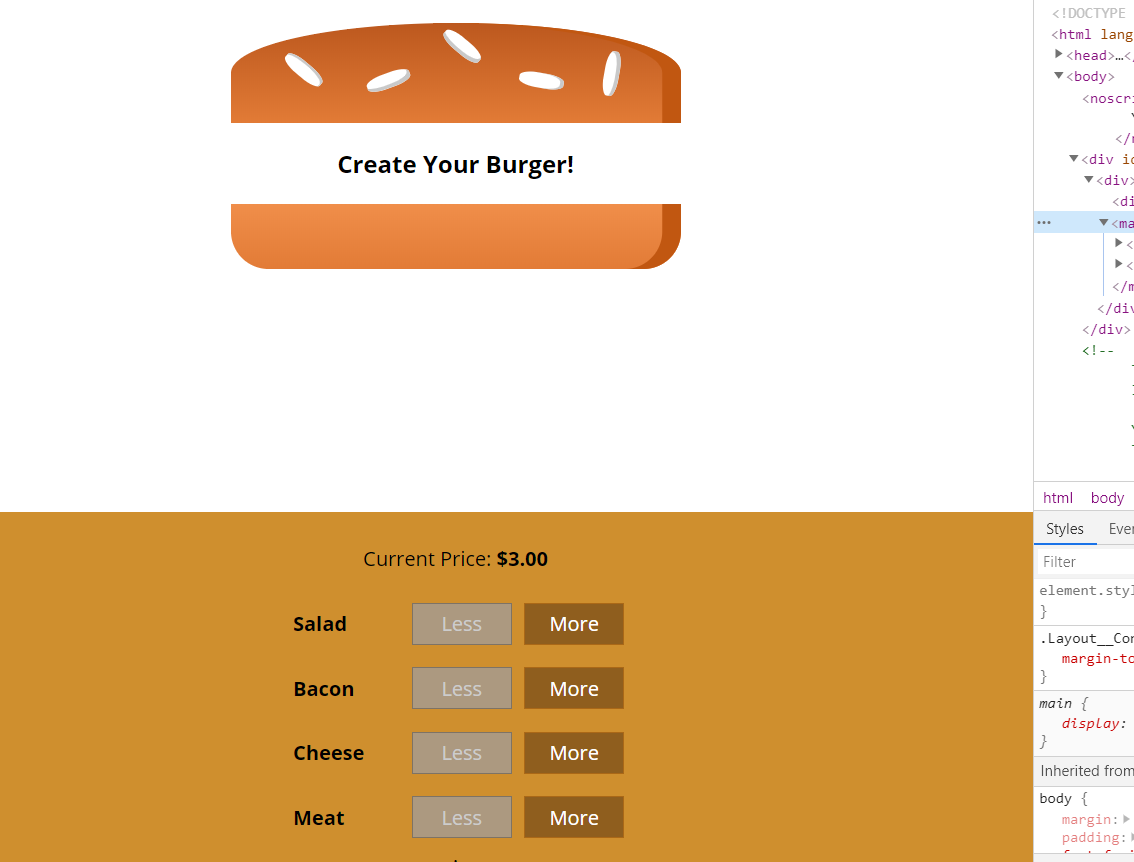
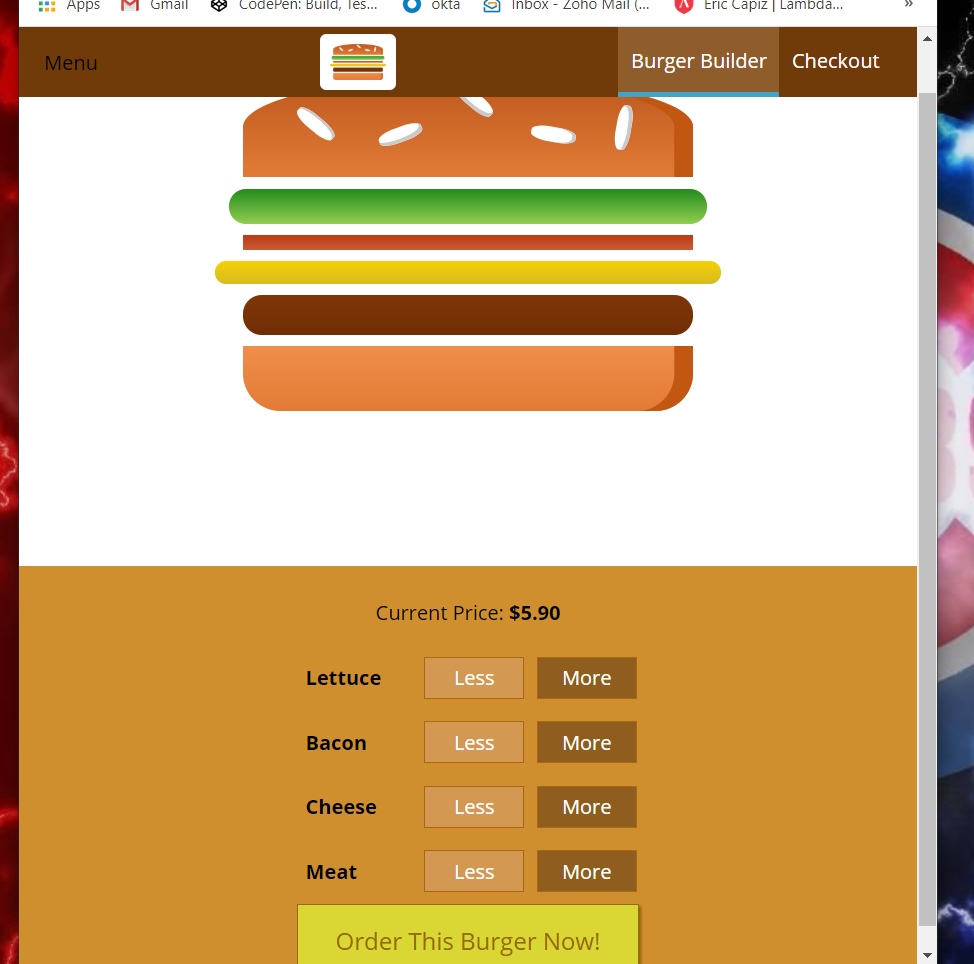
toggle menu for mobile device complete

diff --git a/src/components/Layout/Layout.js b/src/components/Layout/Layout.js
@@ -1,17 +1,34 @@
-import React from 'react';
+import React, {Component} from 'react';
 import Toolbar from '../Navigation/Toolbar/Toolbar';
-
 import Aux1 from '../../hoc/Aux1';
 import classes from './Layout.css';
 import SideDrawer from '../Navigation/SideDrawer/SideDrawer';
-const layout = (props)=>(
-    <Aux1>
-        <Toolbar />
-        <SideDrawer />
-    <main className={classes.Content}>
-        {props.children}
-    </main>
-    </Aux1>
-);
 
-export default layout;
+
+class Layout extends Component{
+    state={
+        showSideDrawer: false
+    }
+    sideDrawerClosedHandler = ()=>{
+        this.setState({showSideDrawer: false})
+    }
+    sideDrawerToggleHandler = ()=>{
+        this.setState((prevState)=>{
+            return{showSideDrawer: !prevState.showSideDrawer};
+        });
+    }
+    render(){
+        return(
+        <Aux1>
+            <Toolbar drawerToggleClicked={this.sideDrawerToggleHandler}/>
+            <SideDrawer closed={this.sideDrawerClosedHandler}
+                open={this.state.showSideDrawer} />
+        <main className={classes.Content}>
+            {this.props.children}
+        </main>
+        </Aux1>
+        )
+    }
+} 
+
+export default Layout;

diff --git a/src/components/Navigation/SideDrawer/SideDrawer.js b/src/components/Navigation/SideDrawer/SideDrawer.js
@@ -2,18 +2,26 @@ import React from 'react';
 import Logo from '../../Logo/Logo';
 import NavigationItems from '../NavigationItems/NavigationItems';
 import classes from './SideDrawer.css';
-
+import Backdrop from '../../UI/Backdrop/Backdrop';
+import Aux1 from '../../../hoc/Aux1';
 const sideDrawer = (props)=>{
+    let attachedClasses = [classes.SideDrawer, classes.Close];
+    if (props.open){
+        attachedClasses =[classes.SideDrawer, classes.Open];
+    }
 
     return(
-        <div className={classes.SideDrawer}>
-            <div className={classes.Logo}>
-            <Logo />
+        <Aux1>
+            <Backdrop show={props.open} clicked={props.closed} />
+            <div className={attachedClasses.join(' ')}>
+                <div className={classes.Logo}>
+                <Logo />
+                </div>
+                <nav>
+                    <NavigationItems />
+                </nav>
             </div>
-            <nav>
-                <NavigationItems />
-            </nav>
-        </div>
+        </Aux1>
     );
 };
 

diff --git a/src/components/Burger/OrderSummary/OrderSummary.js b/src/components/Burger/OrderSummary/OrderSummary.js
@@ -16,12 +16,12 @@ const orderSummary = (props)=>{
     return(
         <Aux1>
             <h3>Your Order:</h3>
-            <p>Your Ingredients:</p>
+            <p>Your burger has the following items:</p>
             <ul>
-                <p><strong>Total Price: {props.price.toFixed(2)}</strong></p>
                 {ingredientSummary}
+                <p><strong>Total Price: ${props.price.toFixed(2)}</strong></p>
             </ul>
-            <p>Checkout</p>
+            
             <Button btnType="Danger" clicked={props.purchaseCancelled}>Cancel Order</Button>
             <Button btnType="Success" clicked={props.purchaseContinued}>Continue</Button>
         </Aux1>

diff --git a/src/containers/BurgerBuilder/BurgerBuilder.js b/src/containers/BurgerBuilder/BurgerBuilder.js
@@ -6,7 +6,7 @@ import Modal from '../../components/UI/Modal/Modal';
 import OrderSummary from '../../components/Burger/OrderSummary/OrderSummary';
 
 const INGREDIENT_PRICES = {
-    salad: 0.5,
+    lettuce: 0.5,
     cheese: 0.4,
     meat: 1.3,
     bacon: 0.7
@@ -15,7 +15,7 @@ const INGREDIENT_PRICES = {
 class BurgerBuilder extends Component{
     state ={
         ingredients:{
-            salad: 0,
+            lettuce: 0,
             bacon: 0,
             cheese: 0,
             meat: 0,

diff --git a/src/components/Navigation/Toolbar/Toolbar.js b/src/components/Navigation/Toolbar/Toolbar.js
@@ -2,9 +2,10 @@ import React from 'react';
 import classes from './Toolbar.css';
 import Logo from '../../Logo/Logo';
 import NavigationItems from '../NavigationItems/NavigationItems';
+import DrawerToggle from '../SideDrawer/DrawerToggle/DrawerToggle';
 const toolbar = (props)=>(
     <header className={classes.Toolbar}>
-        <div>Menu</div>
+        <DrawerToggle clicked={props.drawerToggleClicked} />
         <div className={classes.Logo}>
         <Logo />
         </div>

diff --git a/src/components/Burger/BurgerIngredients/BurgerIngredients.js b/src/components/Burger/BurgerIngredients/BurgerIngredients.js
@@ -29,8 +29,8 @@ class BurgerIngredient extends Component{
             case ('bacon'):
                 ingredient = <div className={classes.Bacon}></div>;
                 break;
-            case ('salad'):
-                ingredient = <div className={classes.Salad}></div>;
+            case ('lettuce'):
+                ingredient = <div className={classes.Lettuce}></div>;
                 break;
             default:
                 ingredient = null;

diff --git a/src/components/Navigation/SideDrawer/DrawerToggle/DrawerToggle.css b/src/components/Navigation/SideDrawer/DrawerToggle/DrawerToggle.css
@@ -1,0 +1,23 @@
+.DrawerToggle {
+    width: 40px;
+    height: 100%;
+    display: flex;
+    flex-flow: column;
+    justify-content: space-around;
+    align-items: center;
+    padding: 10px 0;
+    box-sizing: border-box;
+    cursor: pointer;
+}
+
+.DrawerToggle div {
+    width: 90%;
+    height: 3px;
+    background-color: white;
+}
+
+@media (min-width: 500px) {
+    .DrawerToggle {
+        display: none;
+    }
+}

diff --git a/src/components/Burger/BuildControls/BuildControls.js b/src/components/Burger/BuildControls/BuildControls.js
@@ -3,7 +3,7 @@ import classes from './BuildControls.css';
 import BuildControl from './BuildControl/BuildControl';
 
 const controls = [
-    {label:'Salad', type: 'salad'},
+    {label:'Lettuce', type: 'lettuce'},
     {label:'Bacon', type: 'bacon'},
     {label:'Cheese', type: 'cheese'},
     {label:'Meat', type: 'meat'},

diff --git a/src/components/Navigation/SideDrawer/DrawerToggle/DrawerToggle.js b/src/components/Navigation/SideDrawer/DrawerToggle/DrawerToggle.js
@@ -1,0 +1,12 @@
+import React from 'react';
+import classes from './DrawerToggle.css';
+
+
+const drawerToggle = (props)=>(
+    <div className={classes.DrawerToggle} onClick={props.clicked}>
+        <div></div>
+        <div></div>
+        <div></div>
+    </div>
+);
+export default drawerToggle;

diff --git a/src/components/Burger/BurgerIngredients/BurgerIngredients.css b/src/components/Burger/BurgerIngredients/BurgerIngredients.css
@@ -97,7 +97,7 @@
     border-radius: 20px;
 }
 
-.Salad {
+.Lettuce {
     width: 85%;
     height: 7%;
     margin: 2% auto;
